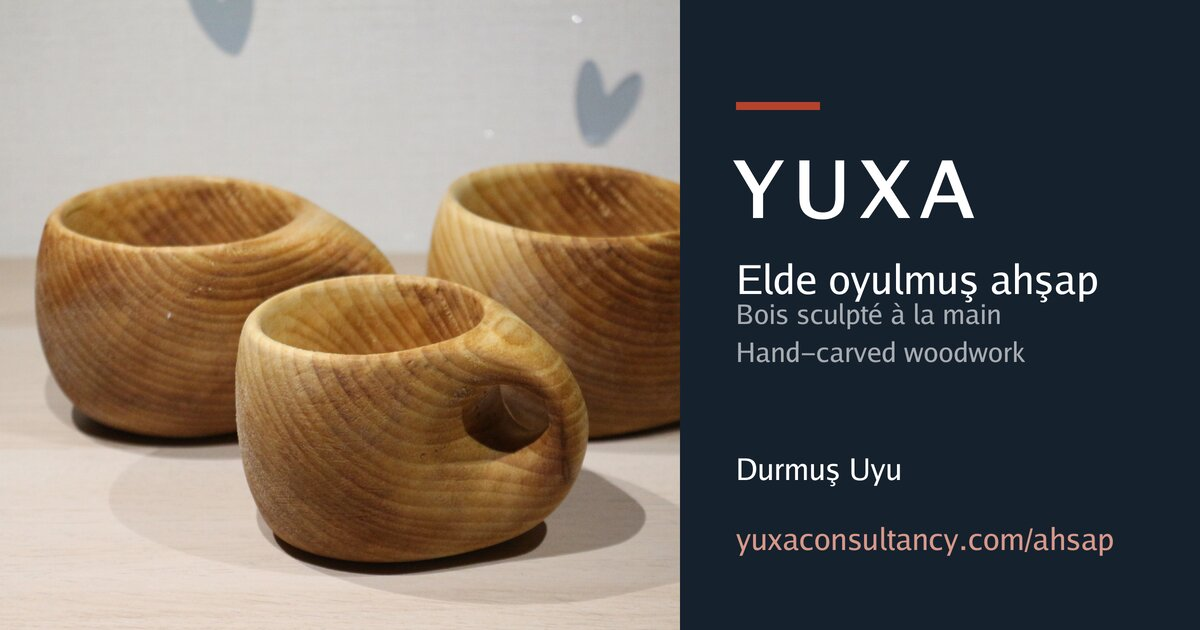
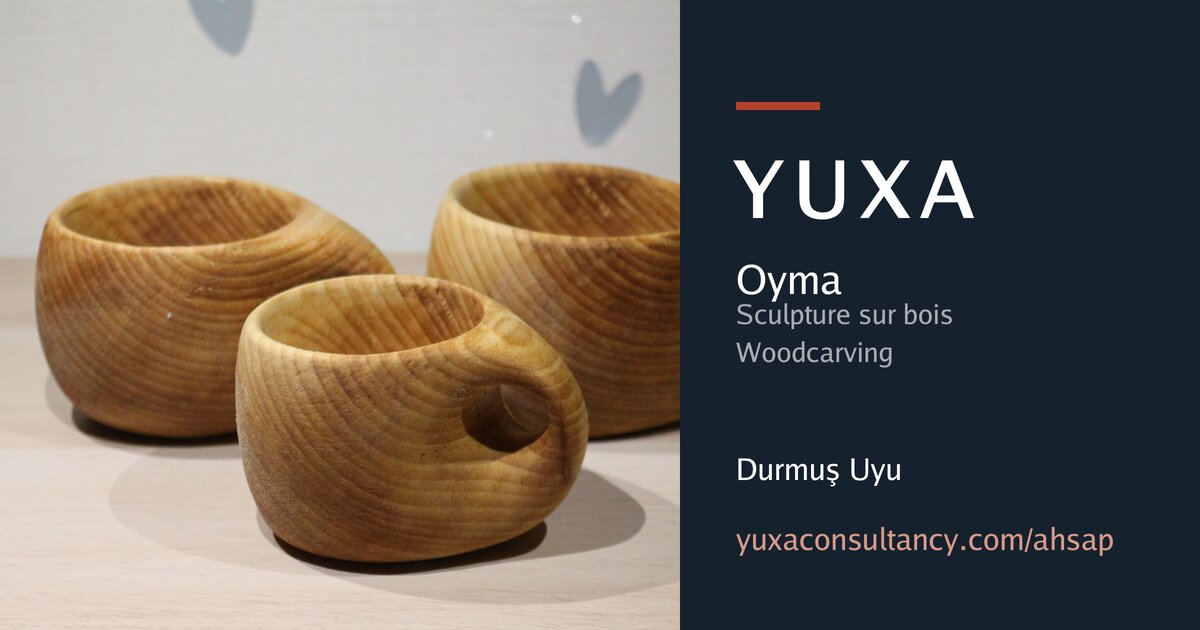
Head the woodwork pages "Oyma"
At the owner's word the woodwork pages and Durmuş's panel on the home
page are headed with the name of the craft, "Oyma", instead of "Elde
oyulmuş ahşap"; in English "Woodcarving", in French "Sculpture sur
bois". The social preview of the woodwork pages says the same.

Changed region(s): [[0.6167, 0.4222, 0.925, 0.573]]

diff --git a/fr/index.html b/fr/index.html
@@ -39,7 +39,7 @@
 </div></header>
 <main id="main">
 <h1 class="visually-hidden">YUXA Consultancy</h1>
-<div class="wrap panels"><article class="panel"><a class="cover" href="../fr/maths/" tabindex="-1" aria-hidden="true"><img src="../assets/desargues.svg" width="600" height="400" alt="Théorème de Desargues : si deux triangles sont en perspective par rapport à un point, leurs côtés homologues se coupent en trois points alignés." decoding="async"></a><p class="kicker">Abdullah Uyu</p><h2><a href="../fr/maths/">Mathématiques, informatique et LaTeX</a></h2><p>Il donne des cours particuliers en français, en turc ou en anglais : mathématiques du collège à l’université, programme français, bac et IB, programmation, et français pour l’année préparatoire de l’Université Galatasaray. Il compose aussi thèses et documents en LaTeX et automatise des tâches pour les petites équipes.</p><table class="price"><tbody><tr><td>Cours, 60 min</td><td>à partir de 1 500 TL</td></tr><tr><td>Composition LaTeX</td><td>à partir de 1 500 TL</td></tr><tr><td>Automatisation et IA</td><td>à partir de 2 000 TL</td></tr></tbody></table><p><a class="btn" href="../fr/maths/">Cours, composition et tarifs →</a></p></article><article class="panel"><a class="cover" href="../fr/bois/" tabindex="-1" aria-hidden="true"><img src="../assets/woodwork/three-kuksas-1000.jpg" width="1000" height="667" alt="Trois kuksas de Durmuş Uyu" decoding="async"></a><p class="kicker">Durmuş Uyu</p><h2><a href="../fr/bois/">Bois sculpté à la main</a></h2><p>Il sculpte sur commande cuillères, doseurs, kuksas, bols et boîtes, à la main et une à une. Il anime aussi des ateliers de sculpture pour débutants et pour groupes.</p><table class="price"><tbody><tr><td>Cuillères et doseurs</td><td>à partir de 750 TL</td></tr><tr><td>Kuksas, bols et boîtes</td><td>à partir de 2 000 TL</td></tr><tr><td>Sculpture de cuillère, 3 à 4 h</td><td>1 250 TL par personne</td></tr></tbody></table><p><a class="btn" href="../fr/bois/">Réalisations, commandes et ateliers →</a></p></article></div>
+<div class="wrap panels"><article class="panel"><a class="cover" href="../fr/maths/" tabindex="-1" aria-hidden="true"><img src="../assets/desargues.svg" width="600" height="400" alt="Théorème de Desargues : si deux triangles sont en perspective par rapport à un point, leurs côtés homologues se coupent en trois points alignés." decoding="async"></a><p class="kicker">Abdullah Uyu</p><h2><a href="../fr/maths/">Mathématiques, informatique et LaTeX</a></h2><p>Il donne des cours particuliers en français, en turc ou en anglais : mathématiques du collège à l’université, programme français, bac et IB, programmation, et français pour l’année préparatoire de l’Université Galatasaray. Il compose aussi thèses et documents en LaTeX et automatise des tâches pour les petites équipes.</p><table class="price"><tbody><tr><td>Cours, 60 min</td><td>à partir de 1 500 TL</td></tr><tr><td>Composition LaTeX</td><td>à partir de 1 500 TL</td></tr><tr><td>Automatisation et IA</td><td>à partir de 2 000 TL</td></tr></tbody></table><p><a class="btn" href="../fr/maths/">Cours, composition et tarifs →</a></p></article><article class="panel"><a class="cover" href="../fr/bois/" tabindex="-1" aria-hidden="true"><img src="../assets/woodwork/three-kuksas-1000.jpg" width="1000" height="667" alt="Trois kuksas de Durmuş Uyu" decoding="async"></a><p class="kicker">Durmuş Uyu</p><h2><a href="../fr/bois/">Sculpture sur bois</a></h2><p>Il sculpte sur commande cuillères, doseurs, kuksas, bols et boîtes, à la main et une à une. Il anime aussi des ateliers de sculpture pour débutants et pour groupes.</p><table class="price"><tbody><tr><td>Cuillères et doseurs</td><td>à partir de 750 TL</td></tr><tr><td>Kuksas, bols et boîtes</td><td>à partir de 2 000 TL</td></tr><tr><td>Sculpture de cuillère, 3 à 4 h</td><td>1 250 TL par personne</td></tr></tbody></table><p><a class="btn" href="../fr/bois/">Réalisations, commandes et ateliers →</a></p></article></div>
 <div class="upcoming"><div class="wrap"><p><span class="label">À venir</span> <strong>LaTeX ile Tez, un atelier en turc :</strong> samedi 28 novembre, de 10 h à 13 h, en ligne. 450 TL jusqu’au 20 novembre, puis 600 TL. <a href="../atolye/">Détails et inscription (en turc) →</a></p></div></div>
 <section id="contact"><div class="wrap">
 <h2>Contact</h2>

diff --git a/en/index.html b/en/index.html
@@ -39,7 +39,7 @@
 </div></header>
 <main id="main">
 <h1 class="visually-hidden">YUXA Consultancy</h1>
-<div class="wrap panels"><article class="panel"><a class="cover" href="../en/maths/" tabindex="-1" aria-hidden="true"><img src="../assets/desargues.svg" width="600" height="400" alt="Desargues’s theorem: when two triangles are in perspective from a point, their corresponding sides meet in three points on one line." decoding="async"></a><p class="kicker">Abdullah Uyu</p><h2><a href="../en/maths/">Mathematics, programming and LaTeX</a></h2><p>He gives private lessons in Turkish, French or English: university mathematics and programming, IB and French-curriculum maths, and French for Galatasaray University’s preparatory year. He also typesets theses and documents in LaTeX and builds automations for small teams.</p><table class="price"><tbody><tr><td>Lessons, 60 min</td><td>from 1,500 TL</td></tr><tr><td>LaTeX typesetting</td><td>from 1,500 TL</td></tr><tr><td>Automation and AI</td><td>from 2,000 TL</td></tr></tbody></table><p><a class="btn" href="../en/maths/">Lessons, typesetting and prices →</a></p></article><article class="panel"><a class="cover" href="../en/woodwork/" tabindex="-1" aria-hidden="true"><img src="../assets/woodwork/three-kuksas-1000.jpg" width="1000" height="667" alt="Three kuksas carved by Durmuş Uyu" decoding="async"></a><p class="kicker">Durmuş Uyu</p><h2><a href="../en/woodwork/">Hand-carved woodwork</a></h2><p>He carves spoons, scoops, kuksas, bowls and boxes to order, by hand and one at a time. He also runs carving workshops for beginners and for groups.</p><table class="price"><tbody><tr><td>Spoons and scoops</td><td>from 750 TL</td></tr><tr><td>Kuksas, bowls and boxes</td><td>from 2,000 TL</td></tr><tr><td>Spoon carving workshop, 3–4 h</td><td>1,250 TL per person</td></tr></tbody></table><p><a class="btn" href="../en/woodwork/">Work, commissions and workshops →</a></p></article></div>
+<div class="wrap panels"><article class="panel"><a class="cover" href="../en/maths/" tabindex="-1" aria-hidden="true"><img src="../assets/desargues.svg" width="600" height="400" alt="Desargues’s theorem: when two triangles are in perspective from a point, their corresponding sides meet in three points on one line." decoding="async"></a><p class="kicker">Abdullah Uyu</p><h2><a href="../en/maths/">Mathematics, programming and LaTeX</a></h2><p>He gives private lessons in Turkish, French or English: university mathematics and programming, IB and French-curriculum maths, and French for Galatasaray University’s preparatory year. He also typesets theses and documents in LaTeX and builds automations for small teams.</p><table class="price"><tbody><tr><td>Lessons, 60 min</td><td>from 1,500 TL</td></tr><tr><td>LaTeX typesetting</td><td>from 1,500 TL</td></tr><tr><td>Automation and AI</td><td>from 2,000 TL</td></tr></tbody></table><p><a class="btn" href="../en/maths/">Lessons, typesetting and prices →</a></p></article><article class="panel"><a class="cover" href="../en/woodwork/" tabindex="-1" aria-hidden="true"><img src="../assets/woodwork/three-kuksas-1000.jpg" width="1000" height="667" alt="Three kuksas carved by Durmuş Uyu" decoding="async"></a><p class="kicker">Durmuş Uyu</p><h2><a href="../en/woodwork/">Woodcarving</a></h2><p>He carves spoons, scoops, kuksas, bowls and boxes to order, by hand and one at a time. He also runs carving workshops for beginners and for groups.</p><table class="price"><tbody><tr><td>Spoons and scoops</td><td>from 750 TL</td></tr><tr><td>Kuksas, bowls and boxes</td><td>from 2,000 TL</td></tr><tr><td>Spoon carving workshop, 3–4 h</td><td>1,250 TL per person</td></tr></tbody></table><p><a class="btn" href="../en/woodwork/">Work, commissions and workshops →</a></p></article></div>
 <div class="upcoming"><div class="wrap"><p><span class="label">Coming up</span> <strong>LaTeX ile Tez, a workshop in Turkish:</strong> Saturday 28 November, 10:00–13:00, online. 450 TL until 20 November, then 600 TL. <a href="../atolye/">Details and registration (Turkish) →</a></p></div></div>
 <section id="contact"><div class="wrap">
 <h2>Contact</h2>

diff --git a/index.html b/index.html
@@ -39,7 +39,7 @@
 </div></header>
 <main id="main">
 <h1 class="visually-hidden">YUXA Consultancy</h1>
-<div class="wrap panels"><article class="panel"><a class="cover" href="matematik/" tabindex="-1" aria-hidden="true"><img src="assets/desargues.svg" width="600" height="400" alt="Desargues teoremi: bir noktaya göre perspektif iki üçgenin karşılıklı kenarları, aynı doğru üzerindeki üç noktada kesişir." decoding="async"></a><p class="kicker">Abdullah Uyu</p><h2><a href="matematik/">Matematik, programlama ve LaTeX</a></h2><p>Türkçe, Fransızca ya da İngilizce özel ders veriyor: üniversite matematiği ve programlama, IB ve Fransız müfredatı, GSÜ Fransızca hazırlık. LaTeX ile tez ve belge diziyor, küçük ekipler için otomasyon kuruyor.</p><table class="price"><tbody><tr><td>Özel ders, 60 dk</td><td>1.500 TL’den</td></tr><tr><td>LaTeX dizgi</td><td>1.500 TL’den</td></tr><tr><td>Otomasyon ve yapay zekâ</td><td>2.000 TL’den</td></tr></tbody></table><p><a class="btn" href="matematik/">Dersler, dizgi ve ücretler →</a></p></article><article class="panel"><a class="cover" href="ahsap/" tabindex="-1" aria-hidden="true"><img src="assets/woodwork/three-kuksas-1000.jpg" width="1000" height="667" alt="Durmuş Uyu’nun oyduğu üç kuksa" decoding="async"></a><p class="kicker">Durmuş Uyu</p><h2><a href="ahsap/">Elde oyulmuş ahşap</a></h2><p>Sipariş üzerine kaşık, ölçek, kuksa, kase ve kutu oyuyor; her parçayı tek tek, elde yapıyor. Yeni başlayanlara ve gruplara oyma atölyeleri veriyor.</p><table class="price"><tbody><tr><td>Kaşık ve ölçek</td><td>750 TL’den</td></tr><tr><td>Kuksa, kase ve kutu</td><td>2.000 TL’den</td></tr><tr><td>Kaşık oyma atölyesi, 3–4 saat</td><td>kişi başı 1.250 TL</td></tr></tbody></table><p><a class="btn" href="ahsap/">İşler, sipariş ve atölyeler →</a></p></article></div>
+<div class="wrap panels"><article class="panel"><a class="cover" href="matematik/" tabindex="-1" aria-hidden="true"><img src="assets/desargues.svg" width="600" height="400" alt="Desargues teoremi: bir noktaya göre perspektif iki üçgenin karşılıklı kenarları, aynı doğru üzerindeki üç noktada kesişir." decoding="async"></a><p class="kicker">Abdullah Uyu</p><h2><a href="matematik/">Matematik, programlama ve LaTeX</a></h2><p>Türkçe, Fransızca ya da İngilizce özel ders veriyor: üniversite matematiği ve programlama, IB ve Fransız müfredatı, GSÜ Fransızca hazırlık. LaTeX ile tez ve belge diziyor, küçük ekipler için otomasyon kuruyor.</p><table class="price"><tbody><tr><td>Özel ders, 60 dk</td><td>1.500 TL’den</td></tr><tr><td>LaTeX dizgi</td><td>1.500 TL’den</td></tr><tr><td>Otomasyon ve yapay zekâ</td><td>2.000 TL’den</td></tr></tbody></table><p><a class="btn" href="matematik/">Dersler, dizgi ve ücretler →</a></p></article><article class="panel"><a class="cover" href="ahsap/" tabindex="-1" aria-hidden="true"><img src="assets/woodwork/three-kuksas-1000.jpg" width="1000" height="667" alt="Durmuş Uyu’nun oyduğu üç kuksa" decoding="async"></a><p class="kicker">Durmuş Uyu</p><h2><a href="ahsap/">Oyma</a></h2><p>Sipariş üzerine kaşık, ölçek, kuksa, kase ve kutu oyuyor; her parçayı tek tek, elde yapıyor. Yeni başlayanlara ve gruplara oyma atölyeleri veriyor.</p><table class="price"><tbody><tr><td>Kaşık ve ölçek</td><td>750 TL’den</td></tr><tr><td>Kuksa, kase ve kutu</td><td>2.000 TL’den</td></tr><tr><td>Kaşık oyma atölyesi, 3–4 saat</td><td>kişi başı 1.250 TL</td></tr></tbody></table><p><a class="btn" href="ahsap/">İşler, sipariş ve atölyeler →</a></p></article></div>
 <div class="upcoming"><div class="wrap"><p><span class="label">Yaklaşan</span> <strong>LaTeX ile Tez atölyesi:</strong> 28 Kasım Cumartesi, 10.00–13.00, online. 20 Kasım’a kadar 450 TL, sonra 600 TL. <a href="atolye/">Ayrıntılar ve kayıt →</a></p></div></div>
 <section id="iletisim"><div class="wrap">
 <h2>İletişim</h2>

diff --git a/fr/bois/index.html b/fr/bois/index.html
@@ -40,7 +40,7 @@
 <main id="main">
 <div class="hero"><div class="wrap">
 <p class="kicker">Bois · Durmuş Uyu</p>
-<h1>Bois sculpté à la main</h1>
+<h1>Sculpture sur bois</h1>
 <p class="lead">Durmuş sculpte sur commande cuillères, doseurs, kuksas, bols et boîtes, à la main et une à une. Il anime aussi des ateliers de sculpture et de travail du bois pour débutants et pour groupes.</p>
 <div class="buttons"><a class="btn primary" href="https://wa.me/message/E5OQUKF24TRFM1" rel="noopener">Écrire sur WhatsApp</a><a class="btn" href="mailto:contact@yuxaconsultancy.com?subject=Travail%20du%20bois">Envoyer un e-mail</a></div>
 </div></div>

diff --git a/ahsap/index.html b/ahsap/index.html
@@ -40,7 +40,7 @@
 <main id="main">
 <div class="hero"><div class="wrap">
 <p class="kicker">Ahşap · Durmuş Uyu</p>
-<h1>Elde oyulmuş ahşap</h1>
+<h1>Oyma</h1>
 <p class="lead">Durmuş sipariş üzerine kaşık, ölçek, kuksa, kase ve kutu oyuyor; her parçayı tek tek, elde yapıyor. Yeni başlayanlara ve gruplara oyma ve ahşap işçiliği atölyeleri veriyor.</p>
 <div class="buttons"><a class="btn primary" href="https://wa.me/message/E5OQUKF24TRFM1" rel="noopener">WhatsApp’tan yazın</a><a class="btn" href="mailto:contact@yuxaconsultancy.com?subject=Ah%C5%9Fap">E-posta gönderin</a></div>
 </div></div>

diff --git a/en/woodwork/index.html b/en/woodwork/index.html
@@ -40,7 +40,7 @@
 <main id="main">
 <div class="hero"><div class="wrap">
 <p class="kicker">Woodwork · Durmuş Uyu</p>
-<h1>Hand-carved woodwork</h1>
+<h1>Woodcarving</h1>
 <p class="lead">Durmuş carves spoons, scoops, kuksas, bowls and boxes to order, by hand and one at a time. He also runs carving and woodworking workshops for beginners and for groups.</p>
 <div class="buttons"><a class="btn primary" href="https://wa.me/message/E5OQUKF24TRFM1" rel="noopener">Message on WhatsApp</a><a class="btn" href="mailto:contact@yuxaconsultancy.com?subject=Woodwork">Send an e-mail</a></div>
 </div></div>

diff --git a/content.py b/content.py
@@ -749,7 +749,7 @@ WOODWORK = {
             "ids": {"gallery": "isler", "offers": "siparis-ve-atolyeler",
                     "prices": "fiyatlar", "contact": "iletisim"},
             "panel": {
-                "title": "Elde oyulmuş ahşap",
+                "title": "Oyma",
                 "text": (
                     "Sipariş üzerine kaşık, ölçek, kuksa, kase ve kutu oyuyor; her "
                     "parçayı tek tek, elde yapıyor. Yeni başlayanlara ve gruplara oyma "
@@ -765,7 +765,7 @@ WOODWORK = {
                 "link": "İşler, sipariş ve atölyeler",
             },
             "kicker": "Ahşap · Durmuş Uyu",
-            "heading": "Elde oyulmuş ahşap",
+            "heading": "Oyma",
             "lead": (
                 "Durmuş sipariş üzerine kaşık, ölçek, kuksa, kase ve kutu oyuyor; her "
                 "parçayı tek tek, elde yapıyor. Yeni başlayanlara ve gruplara oyma ve "
@@ -850,7 +850,7 @@ WOODWORK = {
             "ids": {"gallery": "work", "offers": "commissions-and-workshops",
                     "prices": "prices", "contact": "contact"},
             "panel": {
-                "title": "Hand-carved woodwork",
+                "title": "Woodcarving",
                 "text": (
                     "He carves spoons, scoops, kuksas, bowls and boxes to order, by hand "
                     "and one at a time. He also runs carving workshops for beginners and "
@@ -865,7 +865,7 @@ WOODWORK = {
                 "link": "Work, commissions and workshops",
             },
             "kicker": "Woodwork · Durmuş Uyu",
-            "heading": "Hand-carved woodwork",
+            "heading": "Woodcarving",
             "lead": (
                 "Durmuş carves spoons, scoops, kuksas, bowls and boxes to order, by "
                 "hand and one at a time. He also runs carving and woodworking workshops "
@@ -954,7 +954,7 @@ WOODWORK = {
             "ids": {"gallery": "realisations", "offers": "commandes-et-ateliers",
                     "prices": "tarifs", "contact": "contact"},
             "panel": {
-                "title": "Bois sculpté à la main",
+                "title": "Sculpture sur bois",
                 "text": (
                     "Il sculpte sur commande cuillères, doseurs, kuksas, bols et boîtes, "
                     "à la main et une à une. Il anime aussi des ateliers de sculpture "
@@ -969,7 +969,7 @@ WOODWORK = {
                 "link": "Réalisations, commandes et ateliers",
             },
             "kicker": "Bois · Durmuş Uyu",
-            "heading": "Bois sculpté à la main",
+            "heading": "Sculpture sur bois",
             "lead": (
                 "Durmuş sculpte sur commande cuillères, doseurs, kuksas, bols et "
                 "boîtes, à la main et une à une. Il anime aussi des ateliers de "
